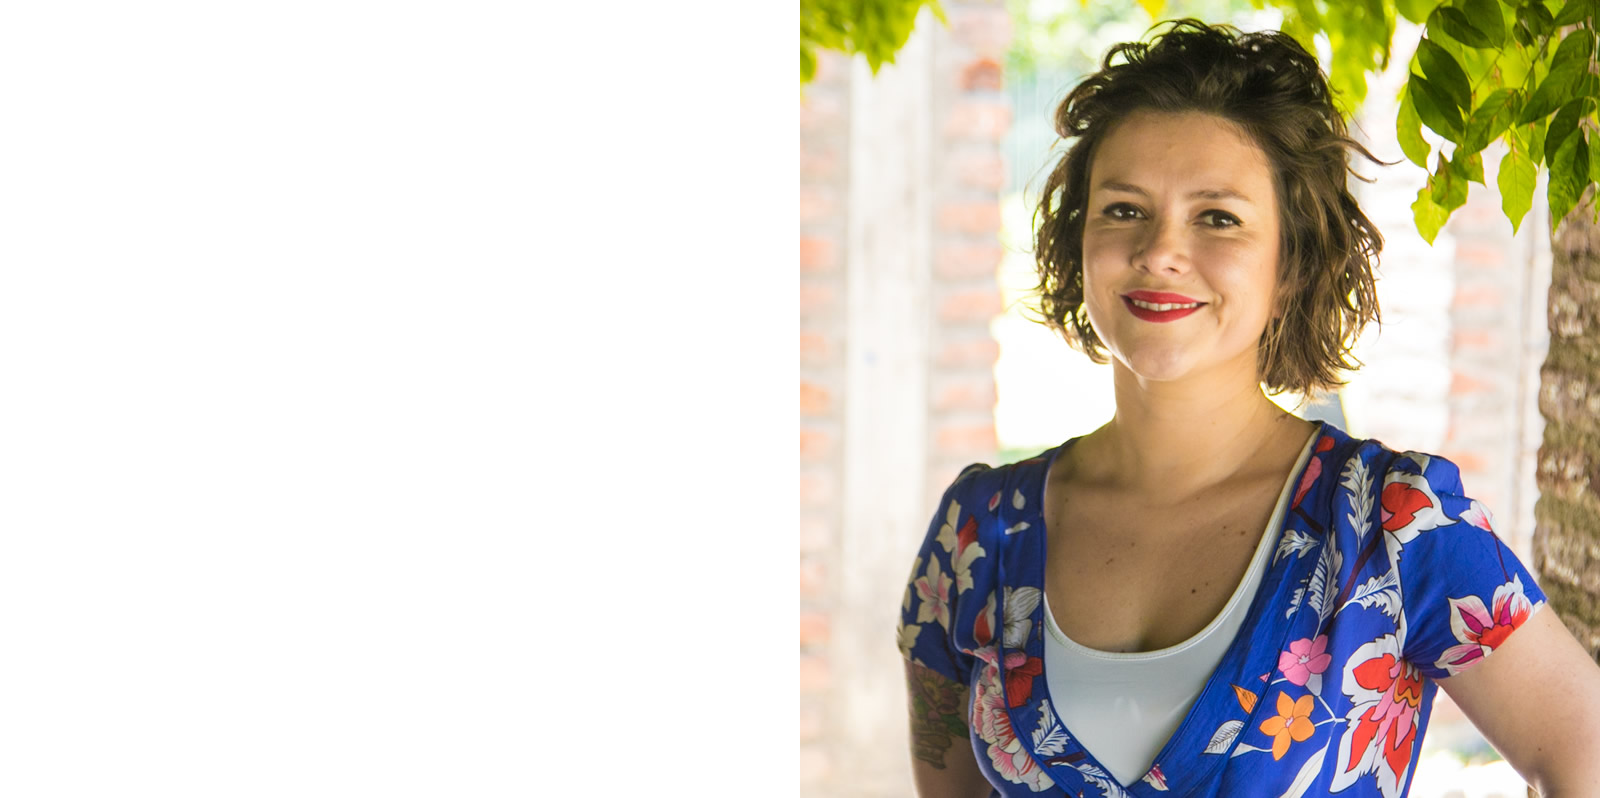
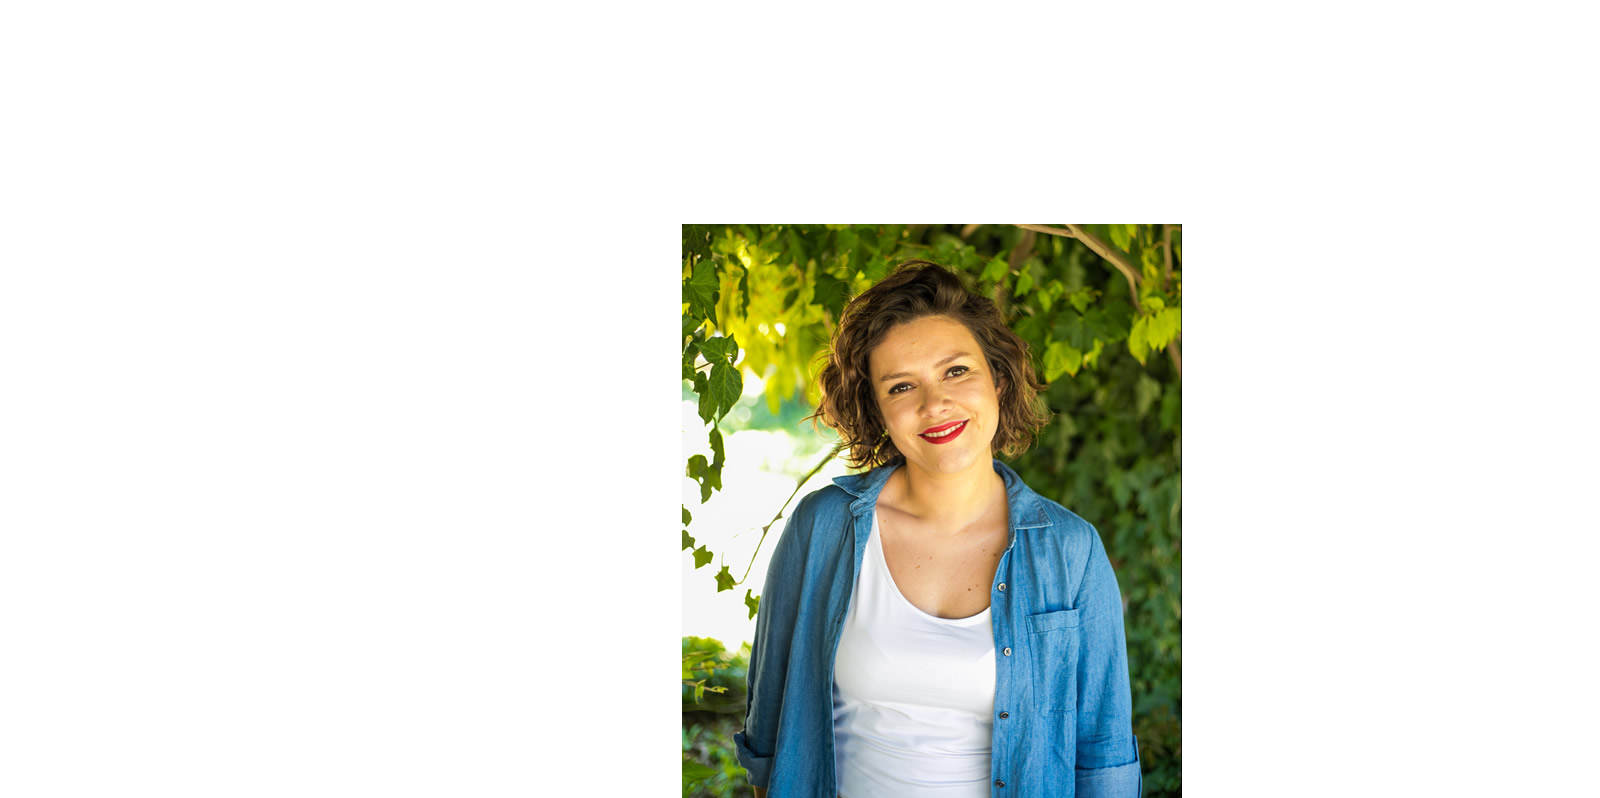
new background

diff --git a/index.html b/index.html
@@ -4,7 +4,7 @@
 <html lang="zxx">
 <head>
 	<meta charset="utf-8">
-	<title>Home 1</title>
+	<title>Ps. Nicole Zebil</title>
 
 
 	<meta name="description" content="----">
@@ -225,8 +225,7 @@ Me transformé en coach de gerentes generales, entreno a equipos ejecutivos y me
 									<h3 class="service-title-head text-capitalize transition bold"><span>03.</span>Liderazgo</h3>
 								</div>
 								<div class="service-text-des">
-									<p>Te entrenarás en habilidades de interacción y liderazgo que te ayudarán a aumentar tu influencia, gestionar conversaciones difíciles, mejorar las relaciones con otros y mejorar tu comunicación verbal y no verbal.
-									<hr>Desarrollarás planes de acción para llevar a cabo los objetivos y metas alineados con tu propósito.</p>
+									<p>Te entrenarás en habilidades de interacción y liderazgo que te ayudarán a aumentar tu influencia, gestionar conversaciones difíciles, mejorar las relaciones con otros y mejorar tu comunicación verbal y no verbal.</p>
 								</div>
 							</div>
 						</div>

diff --git a/assets/css/style.css b/assets/css/style.css
@@ -307,6 +307,7 @@ Start of banner section [*3]
 	background-repeat: no-repeat;
 	background-position: center center;
 	background-image: url(../img/banner/banner-1.jpg);
+	background-size: cover;
 }
 .banner-head {
 	font-size: 50px;
